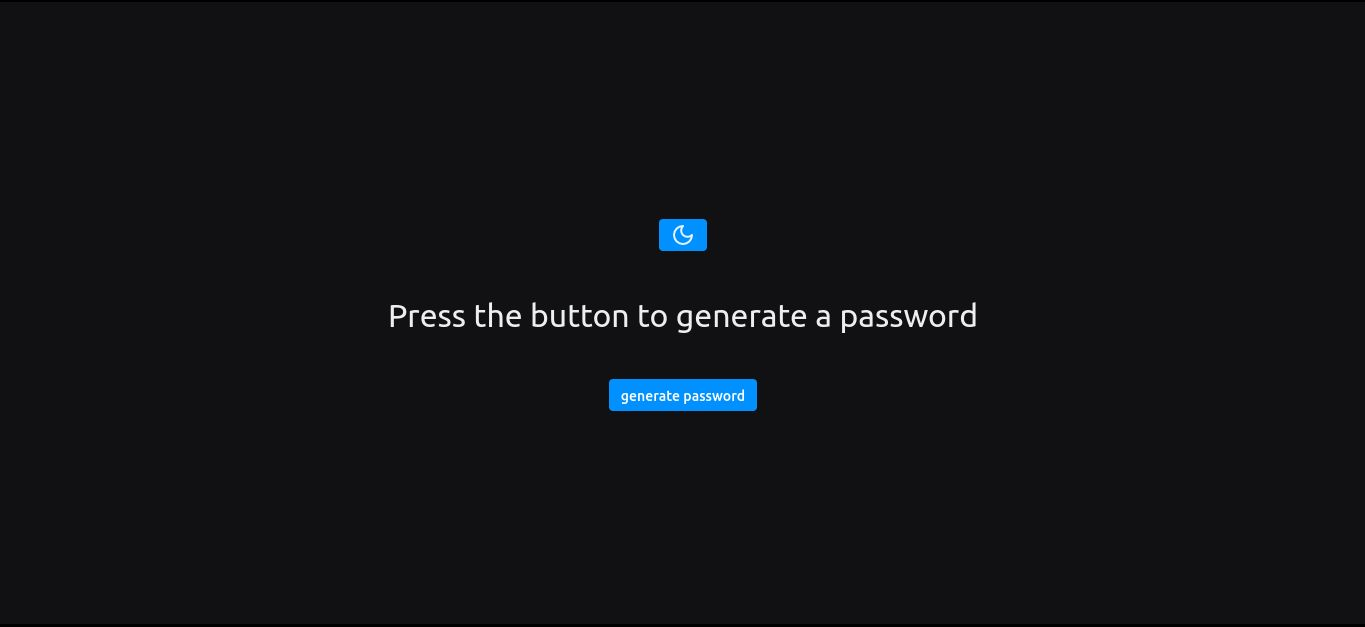
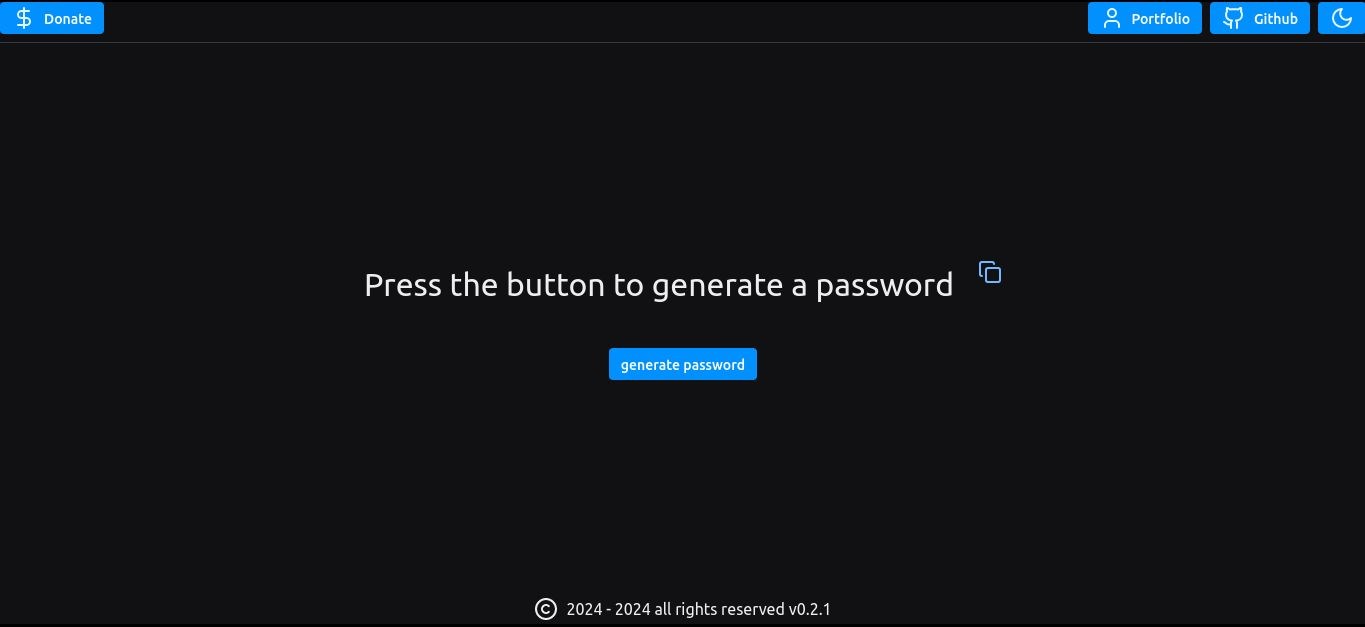
update the readme.md and the images that are in the assets folder, img

diff --git a/README.md b/README.md
@@ -5,12 +5,16 @@ The framework I used to create the password generator web page is called reflex 
 
 ![screenshot of the password generator](assets/img/cap_1.jpg)
 
-You can see that there is also a theme change button, where you can change from light to dark or from dark to light.
+You can see that there is also a header that contains the buttons that redirect to the project's github repository, another button that redirects to my portfolio, another button that redirects to my donation link and finally a change theme button, where you can change from light to dark or from dark to light.
 
 ![screenshot of the password generator](assets/img/cap_2.jpg)
 
-When you press the generate password button, the website will show a randomly generated password, and every time you click the button, it will generate a new password different from the previous one.
+When you press the generate password button, the website will display a randomly generated password, and every time you click the button, it will generate a new password different from the previous one.
+
+You can also copy the password by using the copy button that appears to the right side of the generated password.
 
 ![screenshot of the password generator](assets/img/cap_3.jpg)
+
+At the bottom of the page you can see the footer with the version of the project, which is currently v0.2.1
 
 You can generate the number of passwords you prefer, there is no limit.
